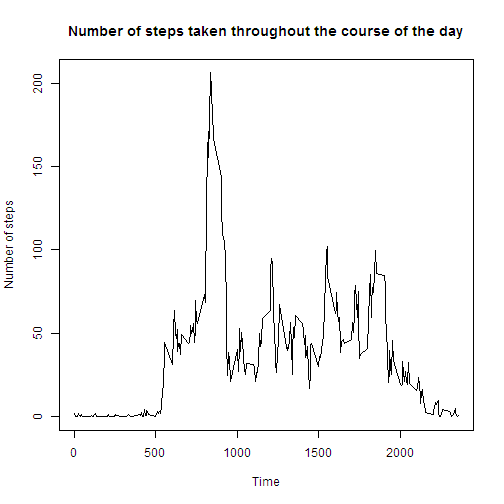
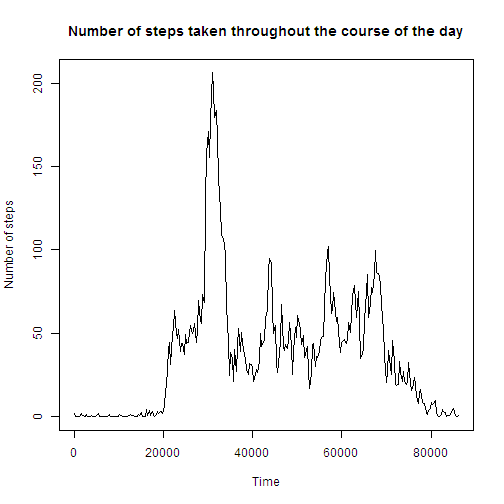
third draft

diff --git a/PA1_template.html b/PA1_template.html
@@ -197,6 +197,10 @@ by R.</p>
 
 <pre><code class="r">data&lt;-read.csv(unzip(&quot;activity.zip&quot;), header=TRUE)
 data$date&lt;-as.Date(data$date)
+data$interval&lt;-sprintf(&quot;%04d&quot;, data$interval)
+data$interval&lt;-format(strptime(data$interval, format=&quot;%H%M&quot;), &quot;%s&quot;)
+data$interval&lt;-as.numeric(data$interval)
+data$interval&lt;-data$interval-data$interval[1]
 </code></pre>
 
 <h2>What is mean total number of steps taken per day?</h2>
@@ -229,12 +233,13 @@ interval.</p>
 plot(x=linedata$interval, y=linedata$steps, type=&quot;l&quot;, xlab=&quot;Time&quot;, ylab=&quot;Number of steps&quot;, main=&quot;Number of steps taken throughout the course of the day&quot;)
 </code></pre>
 
[2 lines of base64/hex data omitted]
 
 <pre><code class="r">time&lt;-linedata[linedata$steps==max(linedata$steps),][1]
+time&lt;-format(as.POSIXct(as.numeric(time), origin=&quot;1960-01-01 00:00:00&quot;, tz=&quot;GMT&quot;), &quot;%H:%M&quot;)
 </code></pre>
 
-<p>The five minute interval starting at minute 835 is the time at which the most steps are taken. </p>
+<p>The five minute interval starting at 08:35 is the time at which the most steps are taken. </p>
 
 <h2>Imputing missing values</h2>
 
@@ -286,7 +291,7 @@ potential&lt;-aggregate(steps ~ interval+weekday, data=finaldata, FUN=mean)
 qplot(interval, steps, data=potential, facets=.~weekday, main=&quot;Steps taken per interval based on weekday or weekend&quot;, xlab=&quot;time&quot;)+geom_line()
 </code></pre>
 
[2 lines of base64/hex data omitted]
 
 <p>We notice that there is less walking per time interval on weekends, but it appears like more walking throughout the day. On weekdays, people take a lot of steps early in the morning but then fewer steps throughout the workday.</p>
 

diff --git a/PA1_template.md b/PA1_template.md
@@ -10,6 +10,10 @@ by R.
 ```r
 data<-read.csv(unzip("activity.zip"), header=TRUE)
 data$date<-as.Date(data$date)
+data$interval<-sprintf("%04d", data$interval)
+data$interval<-format(strptime(data$interval, format="%H%M"), "%s")
+data$interval<-as.numeric(data$interval)
+data$interval<-data$interval-data$interval[1]
 ```
 
 ## What is mean total number of steps taken per day?
@@ -49,9 +53,10 @@ plot(x=linedata$interval, y=linedata$steps, type="l", xlab="Time", ylab="Number 
 
 ```r
 time<-linedata[linedata$steps==max(linedata$steps),][1]
+time<-format(as.POSIXct(as.numeric(time), origin="1960-01-01 00:00:00", tz="GMT"), "%H:%M")
 ```
 
-The five minute interval starting at minute 835 is the time at which the most steps are taken. 
+The five minute interval starting at 08:35 is the time at which the most steps are taken. 
 
 ## Imputing missing values
 
